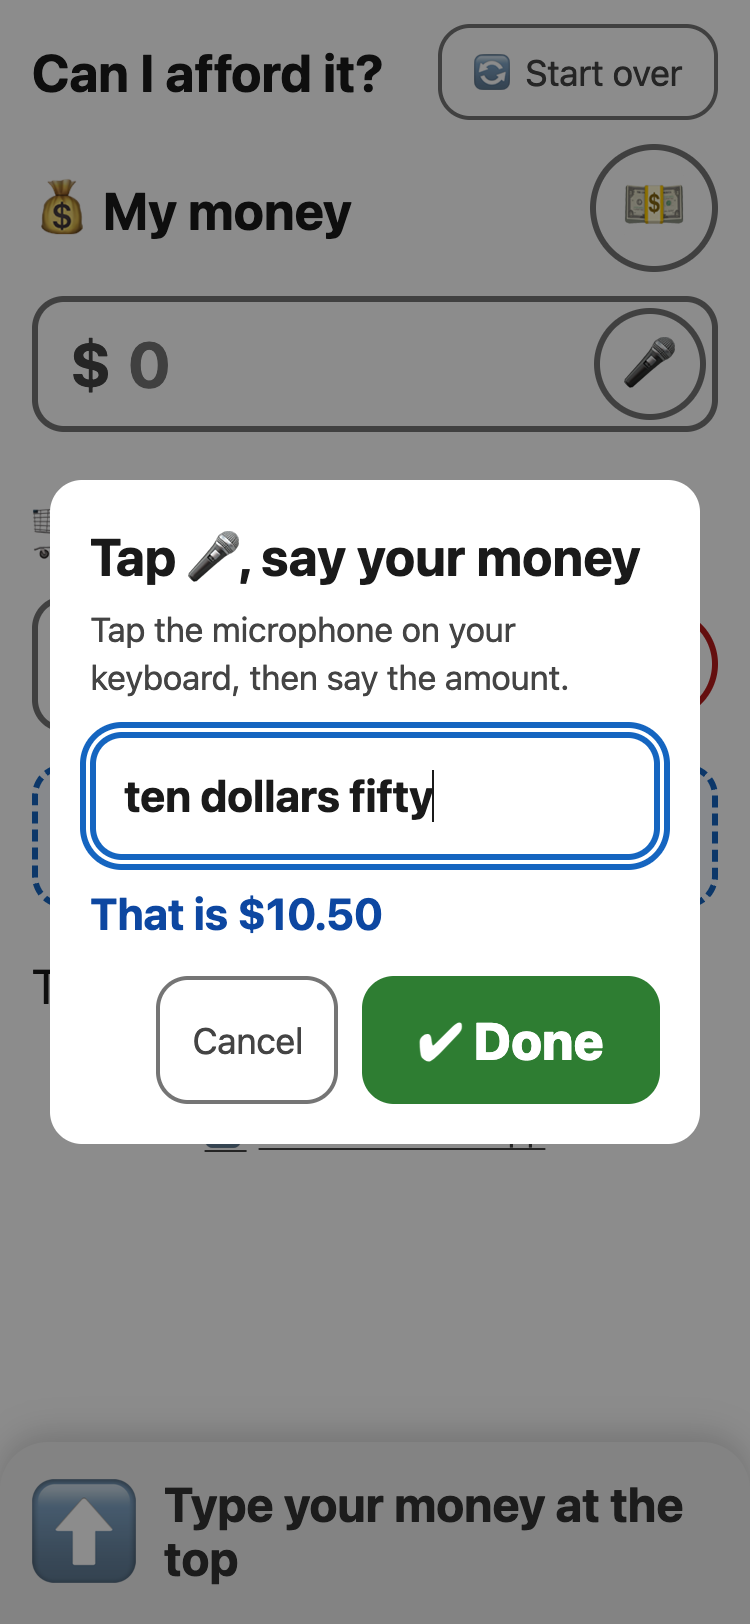
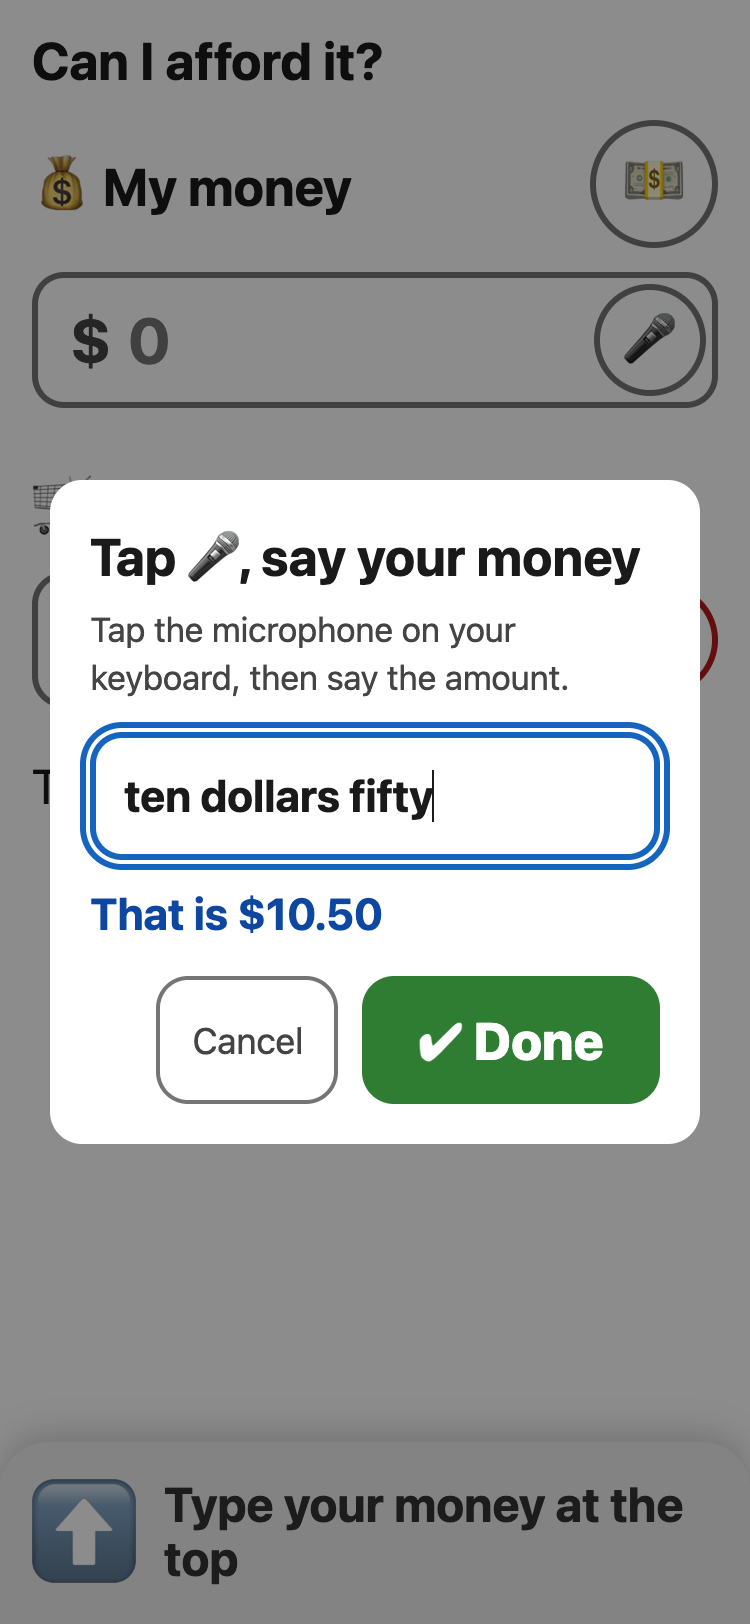
feat: show controls only when they have something to act on
Three rules, all keyed off whether a box has a value:
- the in-box slot always holds exactly one button — 🎤 while empty, ✕
  once filled, so clearing is one tap where the mic used to be
- "Start over" appears only once something has been entered
- "Add another thing" appears only once the last price box is filled,
  so empty rows can't stack up

Clearing a box offers "Put it back" like every other destructive action
here — the ✕ sits where a thumb might land to focus the field, and a
picker-counted amount is real work to lose. Each of these buttons hides
itself when used, so focus moves to the 🎤 taking its place instead of
being stranded on the body.

The field's right padding (not the input's) reserves the button slot:
overflowing text clips at the padding box, so only shrinking the field
keeps long amounts out from under the button.

Guide and screenshots updated, cache bumped to v14.

diff --git a/public/js/app.js b/public/js/app.js
@@ -1,7 +1,8 @@
 // Entry point: owns the app state, wires the three zones together.
 
 import { parseToCents, formatCents, sum } from "./money.js";
-import { initItems, setItems, getItems, itemsTotalCents, hasAnyPrice, addItem, restoreItem } from "./items.js";
+import { initItems, setItems, getItems, itemsTotalCents, hasAnyPrice, addItem, restoreItem,
+         lastItemHasValue, anyItemHasValue } from "./items.js";
 import { initResult, renderResult } from "./result.js";
 import { initPicker, openPicker } from "./note-picker.js";
 import { initSpeak, openSpeak } from "./speak.js";
@@ -17,6 +18,9 @@ const state = {
 
 const moneyInput = $("money-input");
 const speakMoneyBtn = $("speak-money");
+const clearMoneyBtn = $("clear-money");
+const startOverBtn = $("start-over");
+const addItemBtn = $("add-item");
 const moneyChip = $("money-chip");
 const itemsTotalEl = $("items-total");
 const toast = $("toast");
@@ -30,6 +34,9 @@ initItems($("items-list"), {
   onRemove: (item, index) => {
     showToast(`Took away ${formatCents(parseToCents(item.value) ?? 0)}`, () =>
       restoreItem(item, index));
+  },
+  onClear: (item, undo) => {
+    showToast(`Cleared ${formatCents(parseToCents(item.value) ?? 0)}`, undo);
   },
 });
 
@@ -97,16 +104,30 @@ initSpeak({
   cancel: $("speak-cancel"),
 });
 
-$("speak-money").addEventListener("click", () =>
+speakMoneyBtn.addEventListener("click", () =>
   openSpeak((text) => {
     moneyInput.value = text;
     // run the normal typing path: sets state, drops stale picked notes
     moneyInput.dispatchEvent(new Event("input"));
   }));
 
+clearMoneyBtn.addEventListener("click", () => {
+  const before = snapshot();
+  state.moneyValue = "";
+  state.moneySource = "typed";
+  state.pickedNotes = [];
+  moneyInput.value = "";
+  update();
+  // this button just hid itself; hand focus to the 🎤 that took its place
+  // rather than the input, whose keypad would bury the mic on mobile
+  speakMoneyBtn.focus();
+  showToast(`Cleared ${formatCents(parseToCents(before.moneyValue) ?? 0)}`, () =>
+    restore(before));
+});
+
 $("add-item").addEventListener("click", addItem);
 
-$("start-over").addEventListener("click", () => {
+startOverBtn.addEventListener("click", () => {
   const before = snapshot();
   state.moneyValue = "";
   state.moneySource = "typed";
@@ -114,6 +135,7 @@ $("start-over").addEventListener("click", () => {
   moneyInput.value = "";
   setItems([]);
   update();
+  speakMoneyBtn.focus(); // start-over hides itself once everything is empty
   showToast("Everything cleared", () => restore(before));
 });
 
@@ -145,8 +167,15 @@ function update() {
   const moneyCents = parseToCents(state.moneyValue);
   itemsTotalEl.textContent = formatCents(itemsTotalCents());
   moneyChip.hidden = state.moneySource !== "notes";
-  // the mic only offers itself while the box is empty
-  speakMoneyBtn.hidden = moneyInput.value.trim() !== "";
+
+  // 🎤 while the money box is empty, ✕ once it holds something
+  const moneyFilled = moneyInput.value.trim() !== "";
+  speakMoneyBtn.hidden = moneyFilled;
+  clearMoneyBtn.hidden = !moneyFilled;
+  // nothing entered anywhere yet means nothing to start over from
+  startOverBtn.hidden = !moneyFilled && !anyItemHasValue();
+  // one empty row at a time: fill it before another can be added
+  addItemBtn.hidden = !lastItemHasValue();
   renderResult({
     moneyCents: moneyCents ?? 0,
     hasMoney: moneyCents != null,

diff --git a/public/js/items.js b/public/js/items.js
@@ -9,9 +9,18 @@ let handlers = {};
 let items = []; // { id, value } — value is the raw text the user typed
 let nextId = 1;
 
-export function initItems(list, { onChange, onRemove }) {
+export function initItems(list, { onChange, onRemove, onClear }) {
   listEl = list;
-  handlers = { onChange, onRemove };
+  handlers = { onChange, onRemove, onClear };
+}
+
+export function lastItemHasValue() {
+  const last = items[items.length - 1];
+  return !!last && last.value.trim() !== "";
+}
+
+export function anyItemHasValue() {
+  return items.some((it) => it.value.trim() !== "");
 }
 
 export function setItems(arr) {
@@ -93,15 +102,39 @@ function render() {
     speak.className = "mic-btn";
     speak.textContent = "🎤";
     speak.setAttribute("aria-label", `Say the price of thing ${i + 1}`);
-    speak.hidden = input.value.trim() !== "";
     speak.addEventListener("click", () =>
       openSpeak((text) => {
         input.value = text;
         input.dispatchEvent(new Event("input"));
       }));
-    input.addEventListener("input", () => {
-      speak.hidden = input.value.trim() !== "";
+
+    const clear = document.createElement("button");
+    clear.type = "button";
+    clear.className = "clear-btn";
+    clear.textContent = "✕";
+    clear.setAttribute("aria-label", `Clear the price of thing ${i + 1}`);
+    clear.addEventListener("click", () => {
+      const prev = item.value;
+      input.value = "";
+      item.value = "";
+      syncFieldButtons();
+      handlers.onChange();
+      speak.focus(); // this button just hid itself; don't strand focus
+      handlers.onClear({ value: prev }, () => {
+        item.value = prev;
+        render();
+        handlers.onChange();
+      });
     });
+
+    // exactly one of 🎤 / ✕ is showing, decided by whether the box has anything
+    const syncFieldButtons = () => {
+      const filled = input.value.trim() !== "";
+      speak.hidden = filled;
+      clear.hidden = !filled;
+    };
+    syncFieldButtons();
+    input.addEventListener("input", syncFieldButtons);
 
     const remove = document.createElement("button");
     remove.type = "button";
@@ -113,7 +146,7 @@ function render() {
     const wrap = document.createElement("div");
     wrap.className = "amount-wrap";
     label.append(prefix, input);
-    wrap.append(label, speak);
+    wrap.append(label, speak, clear);
     li.append(wrap, remove);
     listEl.append(li);
   });

diff --git a/public/guide.html b/public/guide.html
@@ -195,7 +195,8 @@
     thing you want. The price is on the tag or the shelf.</p>
 
     <p>Want more than one thing? Tap <strong>＋ Add another thing</strong>
-    and type the next price.</p>
+    and type the next price. That button only appears once the last price
+    box has something in it, so you never end up with empty boxes.</p>
 
     <!-- ============================================================ -->
     <h2><span class="step-icon" aria-hidden="true">✅</span> 3. Read the answer</h2>
@@ -221,8 +222,11 @@
       <figcaption>Red: you need more money</figcaption>
     </figure>
 
-    <p>Made a mistake? Tap <strong>🔄 Start over</strong> at the top to
-    clear everything.</p>
+    <p>Made a mistake in one box? Tap the <strong>✕</strong> inside that
+    box to empty it. To clear everything at once, tap
+    <strong>🔄 Start over</strong> at the top. Either way a
+    <strong>Put it back</strong> button appears for a few seconds, in case
+    you did not mean to.</p>
 
     <!-- ============================================================ -->
     <h2><span class="step-icon" aria-hidden="true">🎤</span> Speak instead of typing</h2>
@@ -241,9 +245,10 @@
           and the number goes into the box.</li>
     </ol>
 
-    <p>Once a number is in the box, the <strong>🎤</strong> goes away.
-    Want to say a new amount? Clear the box first and the
-    <strong>🎤</strong> comes back.</p>
+    <p>Once a number is in the box, the <strong>🎤</strong> turns into a
+    <strong>✕</strong>. Want to say a new amount? Tap the
+    <strong>✕</strong> to empty the box and the <strong>🎤</strong>
+    comes back.</p>
 
     <figure>
       <img src="/img/guide/screen-speak.png" width="750" height="1624"

diff --git a/public/css/styles.css b/public/css/styles.css
@@ -120,9 +120,11 @@ h2 {
   flex: 1;
 }
 
-/* voice entry: inside every money box, only while the box is empty — once a
-   number is in, it disappears so it can't read as a "now press this" step */
-.mic-btn {
+/* One slot at the box's right end, always filled by exactly one of these:
+   🎤 while the box is empty (speak instead of type), ✕ once it has a number
+   (wipe it). Neither can read as "press this to continue". */
+.mic-btn,
+.clear-btn {
   position: absolute;
   top: 50%;
   right: 6px;
@@ -136,8 +138,15 @@ h2 {
   border-radius: 50%;
   cursor: pointer;
 }
-.mic-btn:active { background: #e3f2fd; }
-.mic-btn:focus-visible {
+.clear-btn {
+  font-size: 28px;
+  font-weight: 700;
+  color: var(--color-muted);
+}
+.mic-btn:active,
+.clear-btn:active { background: #e3f2fd; }
+.mic-btn:focus-visible,
+.clear-btn:focus-visible {
   outline: 3px solid var(--color-primary);
   outline-offset: 2px;
 }
@@ -147,7 +156,10 @@ h2 {
   align-items: center;
   gap: 8px;
   min-height: var(--target);
-  padding: 0 16px;
+  /* right padding reserves the 🎤/✕ slot: overflowing text clips at the
+     padding box, so shrinking the field is what actually keeps long
+     amounts out from under the button */
+  padding: 0 66px 0 16px;
   background: #fff;
   border: 3px solid var(--color-border);
   border-radius: var(--radius);

diff --git a/public/index.html b/public/index.html
@@ -64,6 +64,10 @@
                 aria-label="Say how much money I have" title="Say my money">
           <span aria-hidden="true">🎤</span>
         </button>
+        <button id="clear-money" class="clear-btn" type="button" hidden
+                aria-label="Clear my money" title="Clear my money">
+          <span aria-hidden="true">✕</span>
+        </button>
       </div>
       <p id="money-chip" class="chip" hidden><span aria-hidden="true">💵</span> from my notes and coins</p>
     </section>

diff --git a/public/sw.js b/public/sw.js
@@ -2,7 +2,7 @@
 // launch picks up new files; firebase.json serves this file with no-cache.
 // "/guide" (not "/guide.html"): Hosting cleanUrls 301s the .html form, and a
 // cached redirected response breaks offline navigations.
-const CACHE = "afford-v13";
+const CACHE = "afford-v14";
 const ASSETS = [
   "/",
   "/index.html",

diff --git a/README.md b/README.md
@@ -118,7 +118,8 @@ When releasing a new version, bump the `CACHE` version string in
   numeric keyboard — but that keyboard has **no dictation key** on iOS or
   Android (Gboard shows "This app doesn't support voice input"). Voice entry
   therefore goes through the 🎤 button inside each money box — shown only
-  while the box is empty, so it can't read as a submit step: it opens the
+  while the box is empty (a ✕ clear button takes the same slot once it has
+  a value), so it can't read as a submit step: it opens the
   `#speak` dialog whose plain text input summons the full keyboard (mic
   available), and `js/speak.js` parses the dictated text — digits, "10
   dollars 50 cents", word numbers like "twelve fifty" — into a clean amount.
